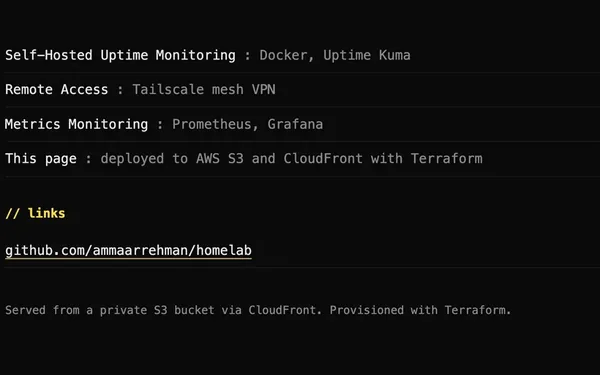
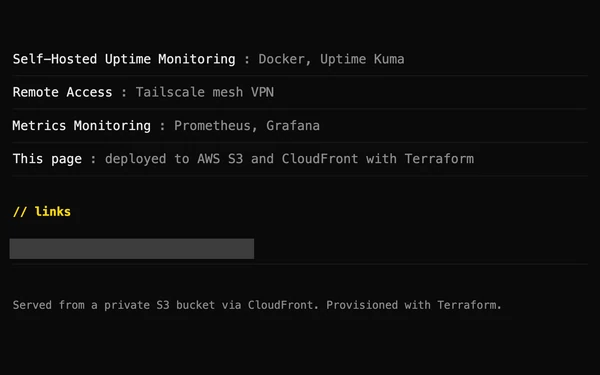
Site: refresh Phase 7 K4 project screenshots

diff --git a/index.html b/index.html
@@ -327,7 +327,7 @@
 
           <article class="work-item">
             <div class="win-bar" aria-hidden="true"><span class="term-dots"><i></i><i></i><i></i></span><span>homelab/ha-dns</span></div>
-            <img class="work-img" src="assets/work/ha-dns.webp" srcset="assets/work/ha-dns-600.webp 600w, assets/work/ha-dns.webp 982w" sizes="(max-width: 820px) calc(100vw - 48px), 470px" width="982" height="792" loading="lazy" decoding="async" alt="A dig query to the homelab DNS returning six answers for google.com, with the server address and the laptop name redacted" />
+            <img class="work-img" src="assets/work/ha-dns.webp" srcset="assets/work/ha-dns-600.webp 600w, assets/work/ha-dns.webp 982w" sizes="(max-width: 820px) calc(100vw - 48px), 470px" width="982" height="614" loading="lazy" decoding="async" alt="A dig query to the homelab DNS returning six answers for google.com, with the server address redacted" />
             <div class="work-body">
               <div class="work-meta"><span class="status status-shipped">RETIRED</span><span class="work-type">homelab / networking</span></div>
               <h3 class="work-title">High-availability DNS</h3>
@@ -402,7 +402,7 @@
 
           <article class="work-item">
             <div class="win-bar" aria-hidden="true"><span class="term-dots"><i></i><i></i><i></i></span><span>trading-lab</span></div>
-            <img class="work-img" src="assets/work/trading-lab.webp" srcset="assets/work/trading-lab-600.webp 600w, assets/work/trading-lab.webp 1200w" sizes="(max-width: 820px) calc(100vw - 48px), 470px" width="1200" height="560" loading="lazy" decoding="async" alt="Chart from trading-lab: $250 in the tested strategy grew to $307 from 2015 to 2026, against $1,125 buying and holding SPY" />
+            <img class="work-img" src="assets/work/trading-lab.webp" srcset="assets/work/trading-lab-600.webp 600w, assets/work/trading-lab.webp 1280w" sizes="(max-width: 820px) calc(100vw - 48px), 470px" width="1280" height="800" loading="lazy" decoding="async" alt="trading-lab's saved result for experiment 9, a trend-following allocation: four pre-registered checks pass, the 50 bp cost check fails, verdict REJECT" />
             <div class="work-body">
               <div class="work-meta"><span class="status status-shipped">DONE</span><span class="work-type">research / python</span></div>
               <h3 class="work-title">trading-lab</h3>
@@ -558,7 +558,7 @@
 
           <article class="work-item">
             <div class="win-bar" aria-hidden="true"><span class="term-dots"><i></i><i></i><i></i></span><span>homelab/terraform-aws-static-site</span></div>
-            <img class="work-img" src="assets/work/terraform.webp" srcset="assets/work/terraform-600.webp 600w, assets/work/terraform.webp 820w" sizes="(max-width: 820px) calc(100vw - 48px), 470px" width="820" height="512" loading="lazy" decoding="async" alt="The deployed static site listing homelab projects, with the footer: served from a private S3 bucket via CloudFront, provisioned with Terraform" />
+            <img class="work-img" src="assets/work/terraform.webp" srcset="assets/work/terraform-600.webp 600w, assets/work/terraform.webp 1280w" sizes="(max-width: 820px) calc(100vw - 48px), 470px" width="1280" height="800" loading="lazy" decoding="async" alt="Historical deployed static site showing homelab projects and a footer noting it was served from a private S3 bucket through CloudFront and provisioned with Terraform. The repository link is redacted." />
             <div class="work-body">
               <div class="work-meta"><span class="status status-shipped">SHIPPED</span><span class="work-type">cloud / IaC</span></div>
               <h3 class="work-title">AWS static site with Terraform</h3>
